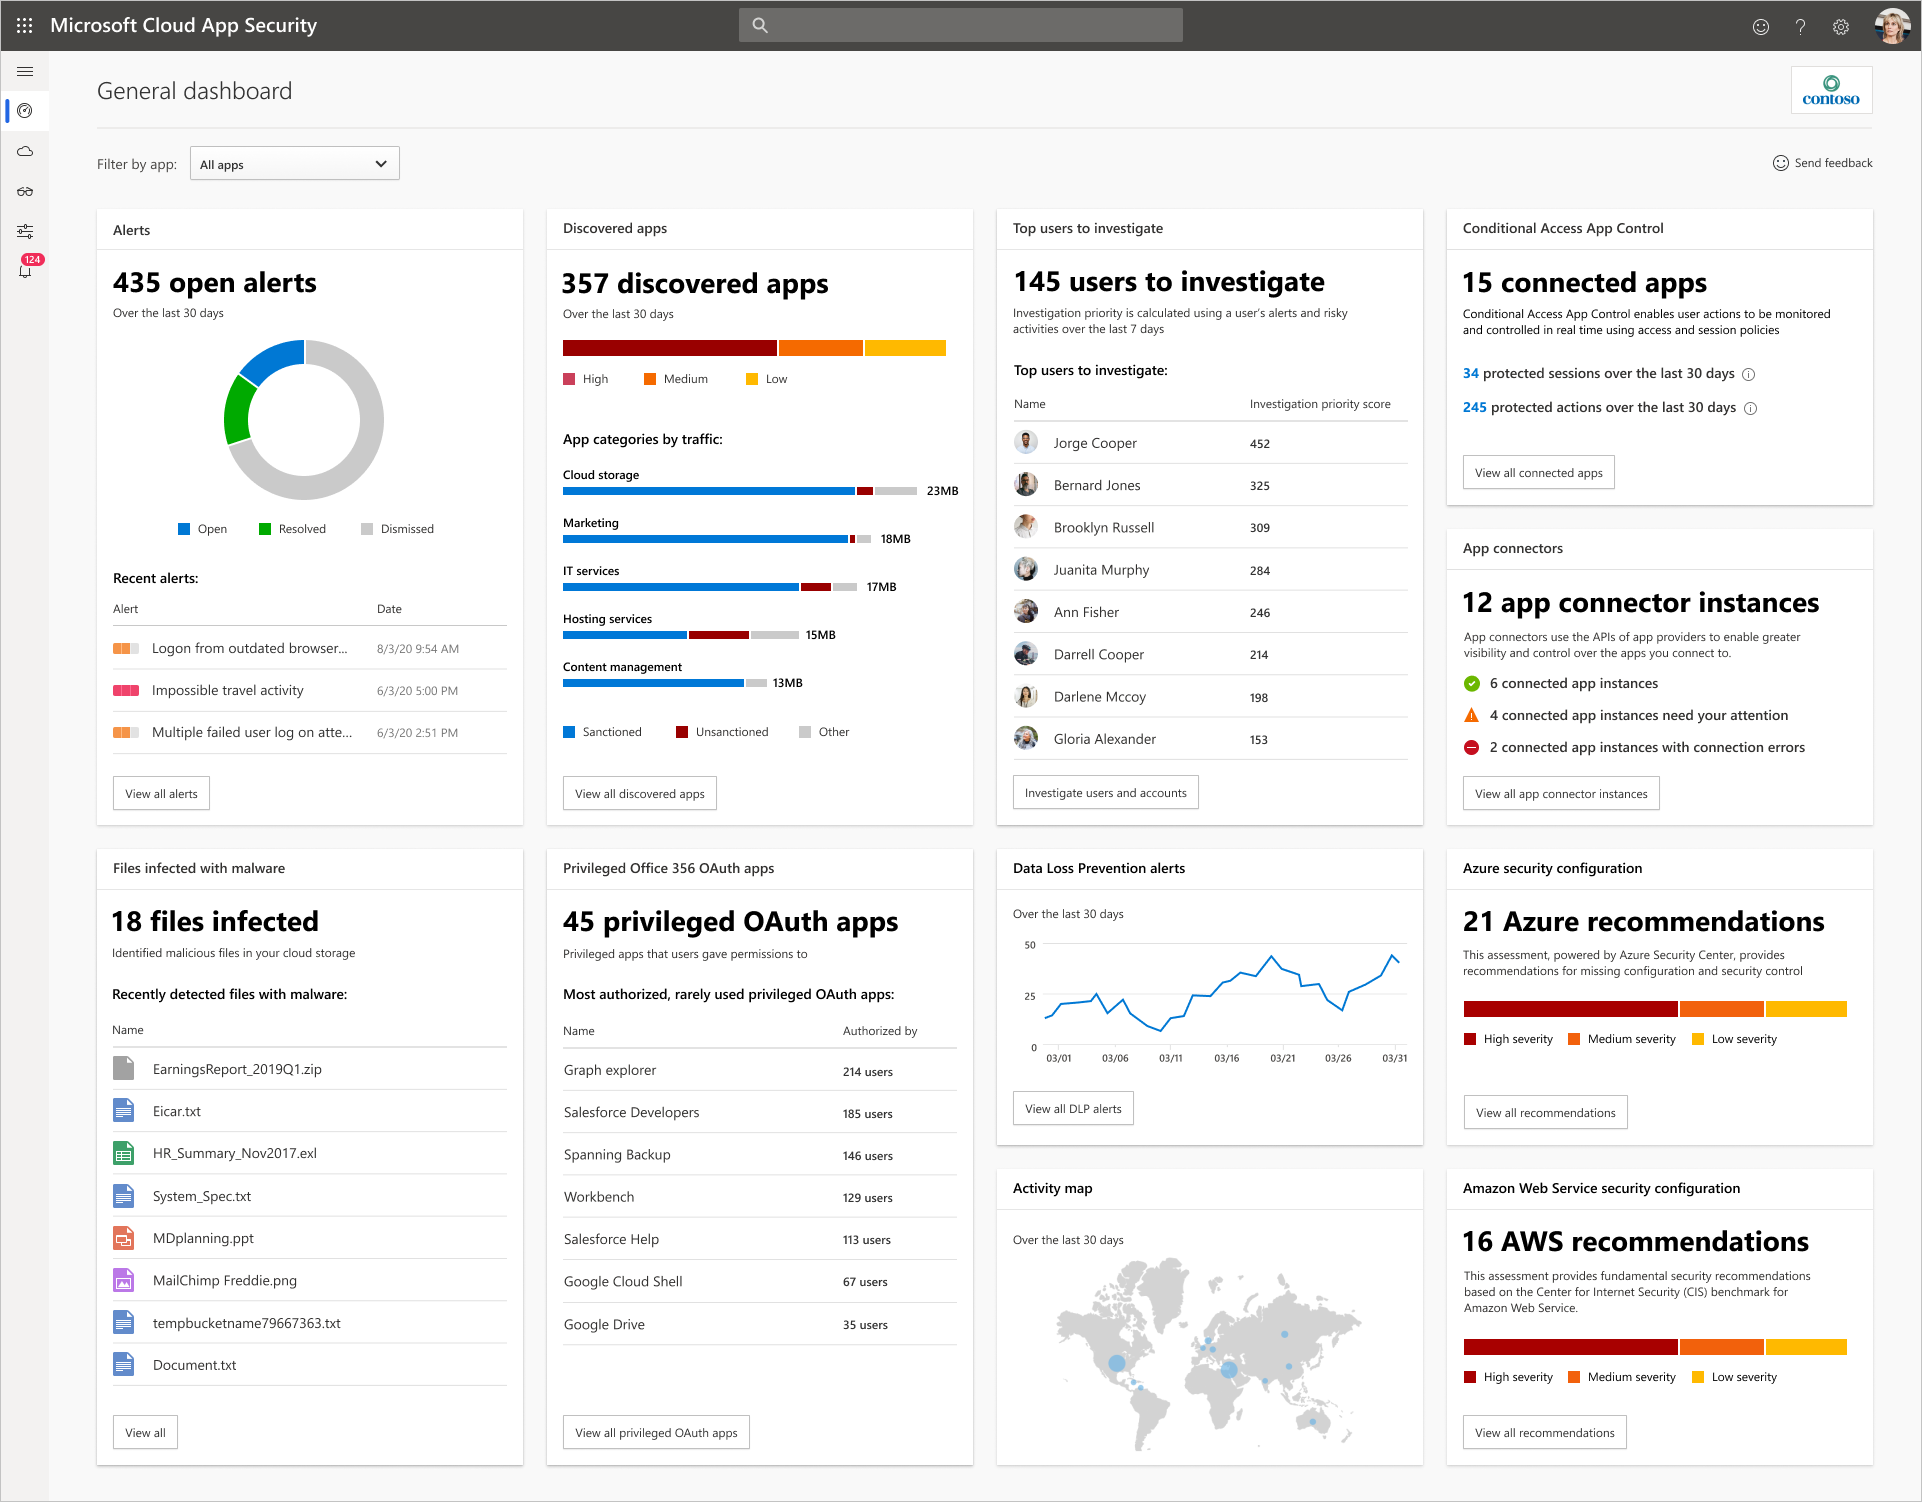
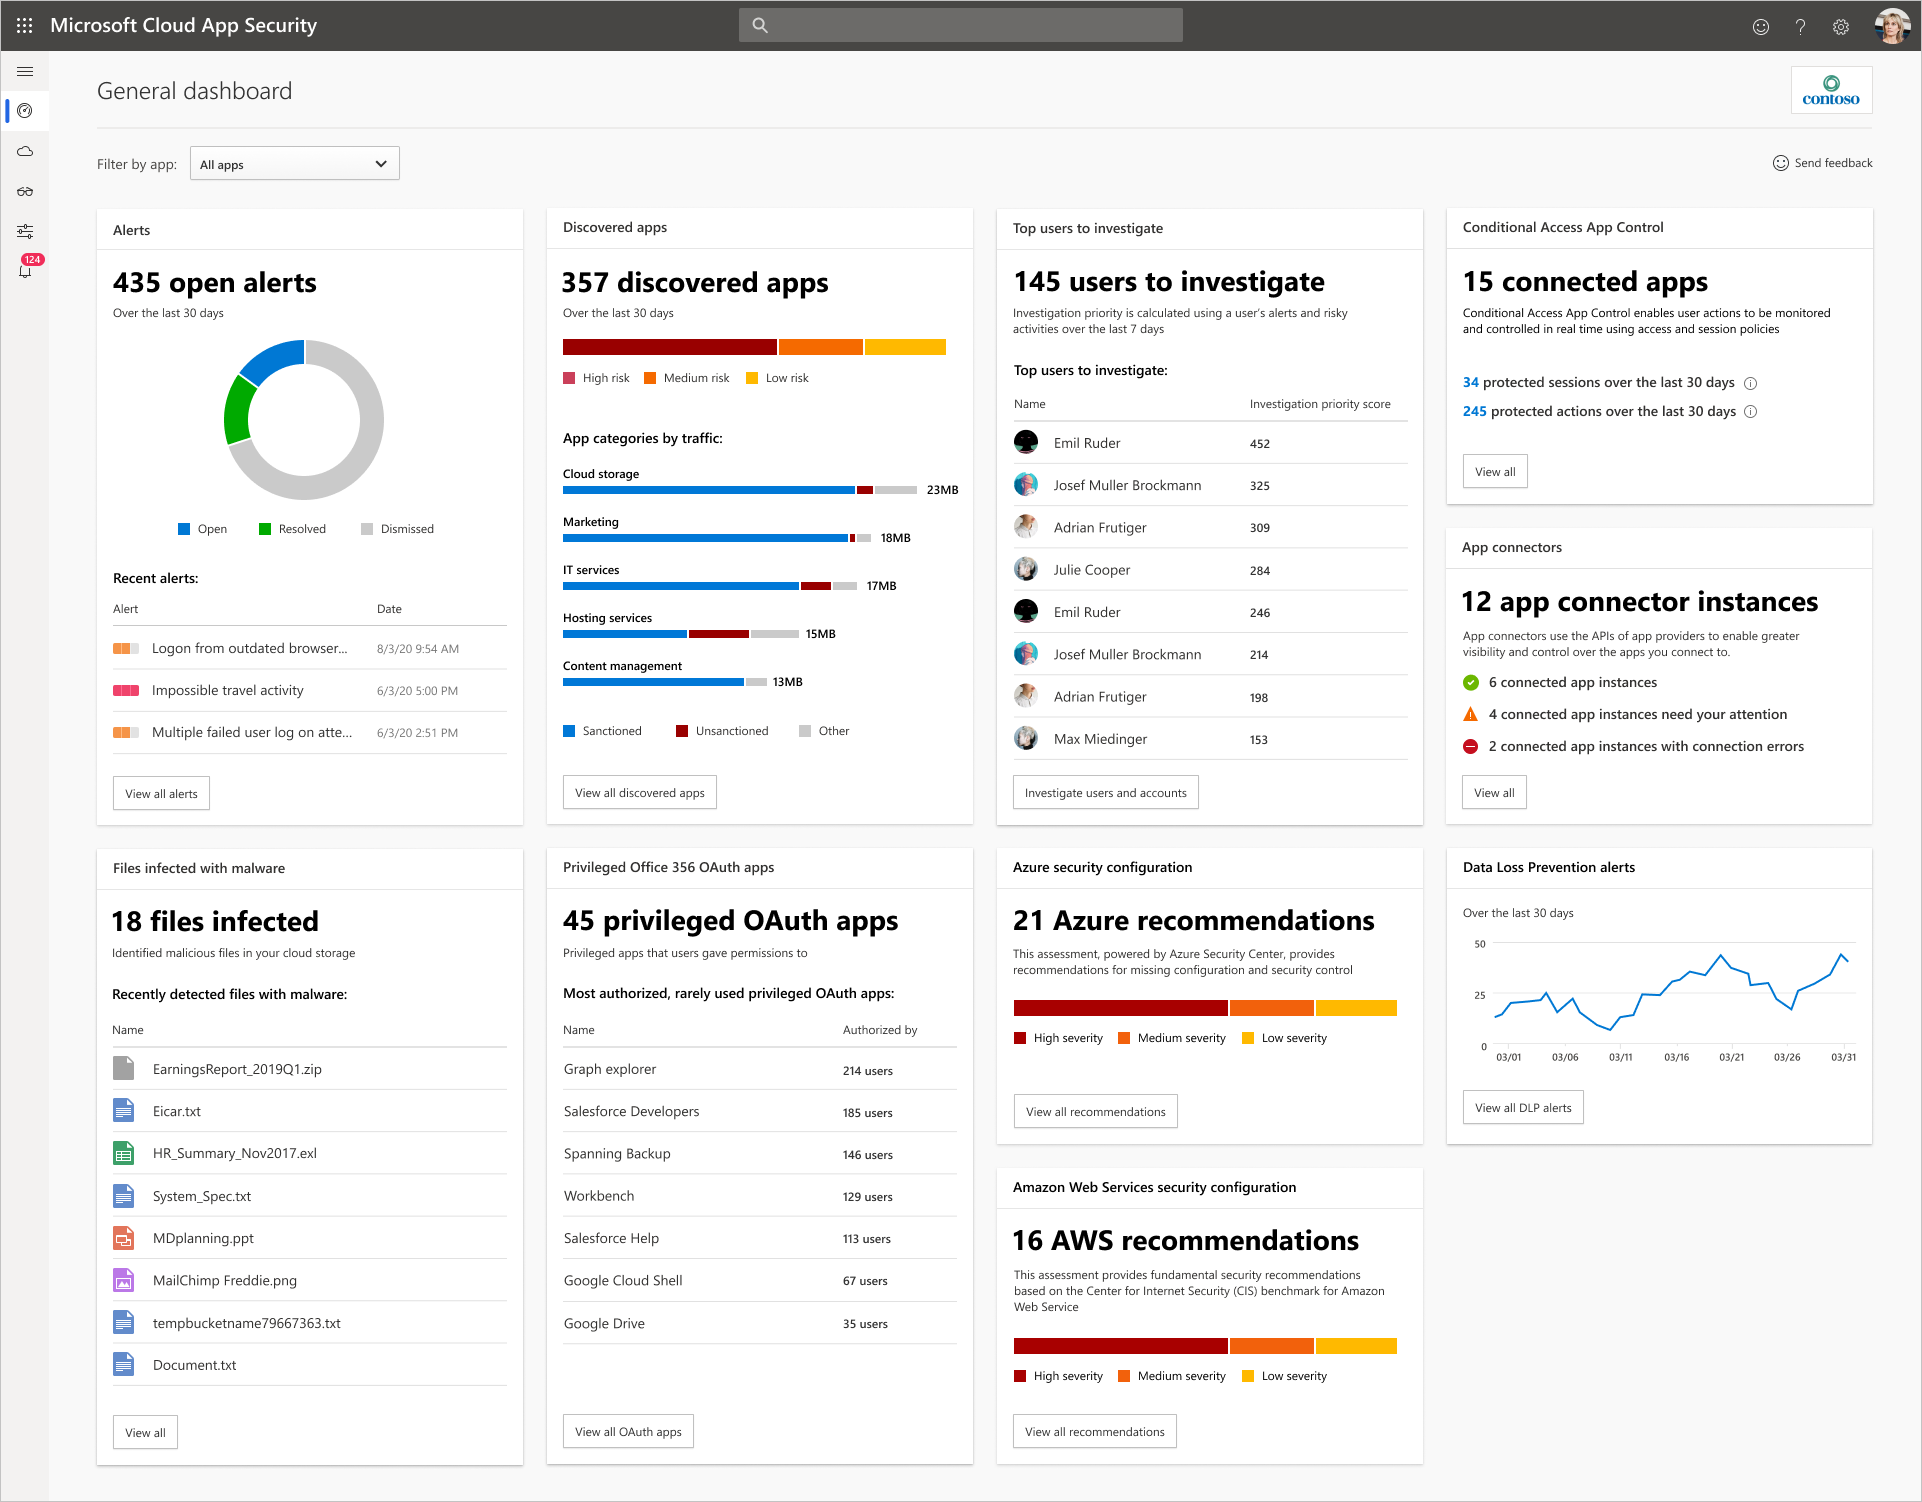
Final updates

diff --git a/CloudAppSecurityDocs/daily-activities-to-protect-your-cloud-environment.md b/CloudAppSecurityDocs/daily-activities-to-protect-your-cloud-environment.md
@@ -73,18 +73,18 @@ Shows the number of users to investigate and the users with the highest investig
 Shows the number of apps protected by Conditional Access App Control as well as the number of protected sessions and actions over the last 30 days.
 - **App connectors status**  
 Shows the number of API connected app instances and their status.
-- **DLP alerts**  
-Shows a graph of DLP alerts over the last 30 days.
-- **Privileged Office 365 OAuth apps**  
-Shows the number of rarely used OAuth apps granted highly privileged permissions.
 - **Files infected with malware**  
 Shows the number of files infected with malware.
-- **Activity map**  
-Shows the global spread of activities performed by users over the last 30 days.
+- **Privileged Office 365 OAuth apps**  
+Shows the number of rarely used OAuth apps granted highly privileged permissions.
 - **Azure security configuration**  
 Shows the number and severity of Azure security configuration recommendations.
 - **AWS security configuration**  
 Shows the number and severity of AWS security configuration recommendations.
+- **DLP alerts**  
+Shows a graph of DLP alerts over the last 30 days.
+<!-- - **Activity map**  
+Shows the global spread of activities performed by users over the last 30 days. -->
 
 ## Next steps
 
